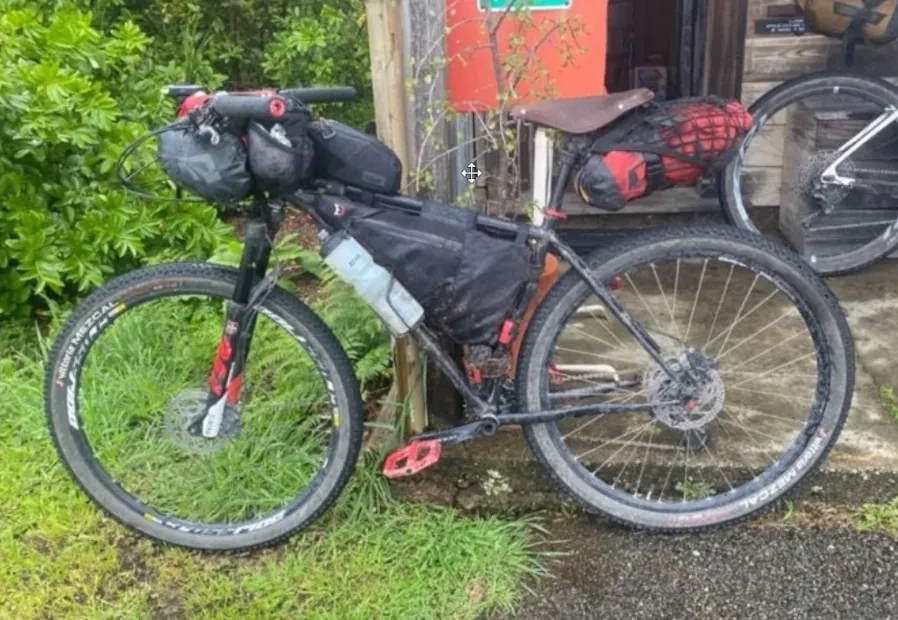
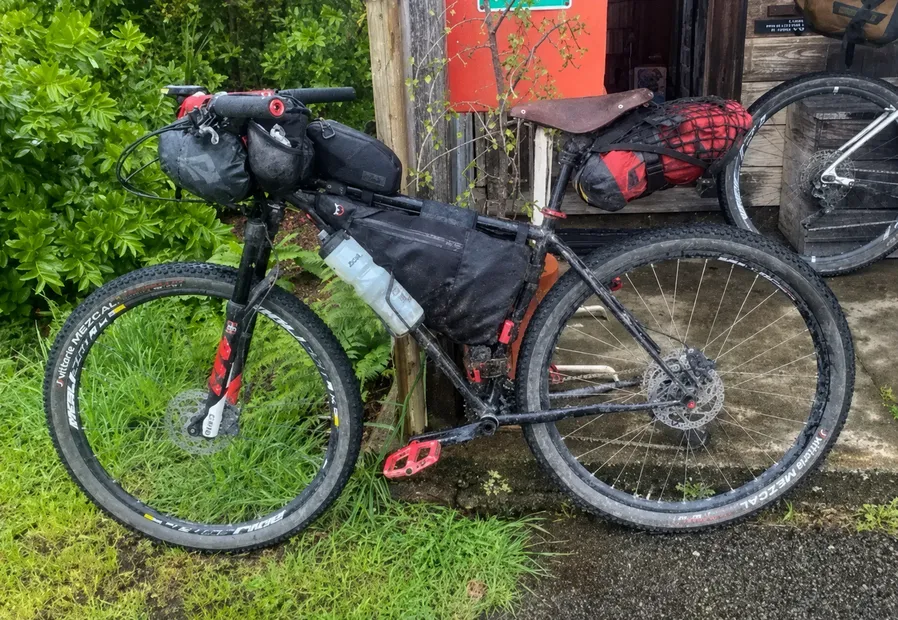
as

diff --git a/index.html b/index.html
@@ -2399,9 +2399,10 @@ body{
     'images/Builds/abBuild57.webp',
     'images/Builds/abc.webp',
     'images/Builds/Build10.webp',
-    'images/Builds/Build13.webp',
+    
     'images/Builds/Build2.webp',
     'images/Builds/Build51.webp',
+    'images/Builds/Build13.webp',
     'images/Builds/Build53.webp',
     'images/Builds/Build6.webp',
     'images/Builds/Hard1.webp'